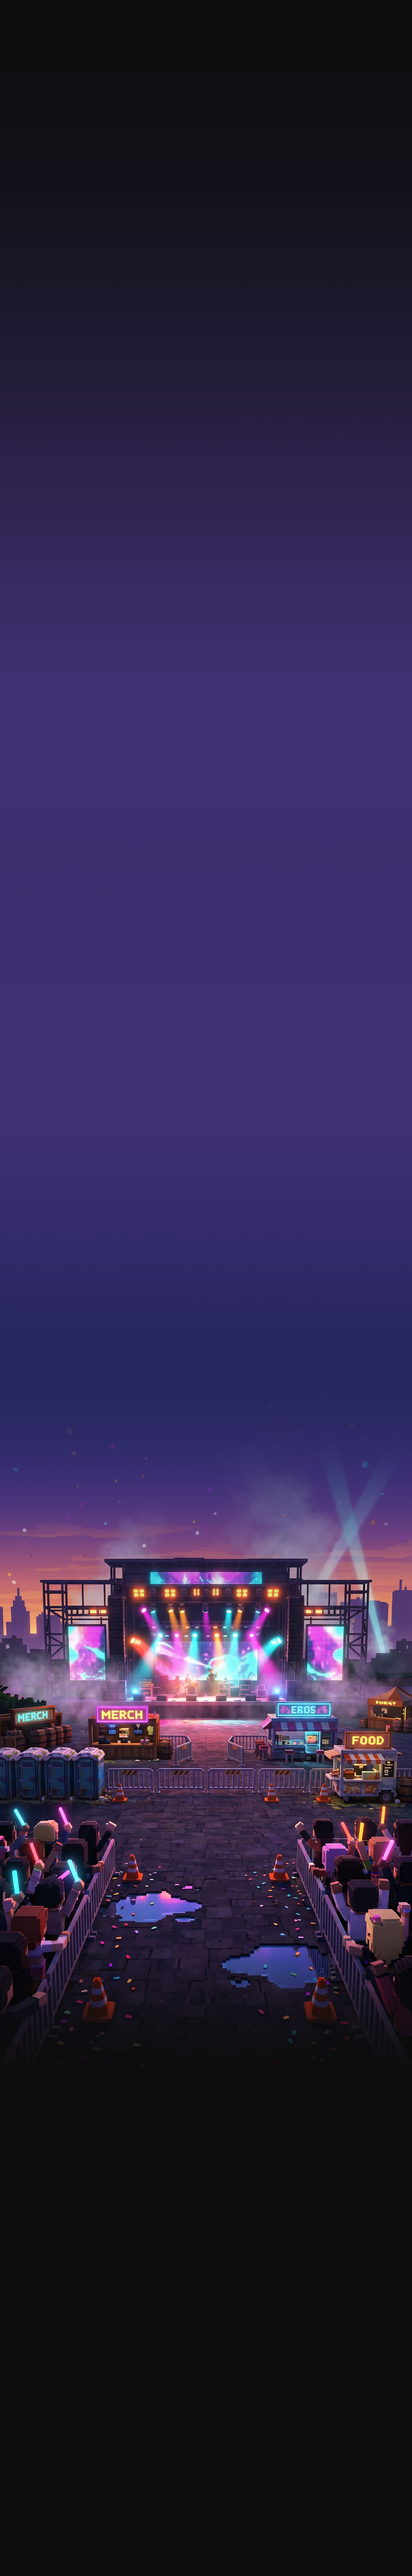
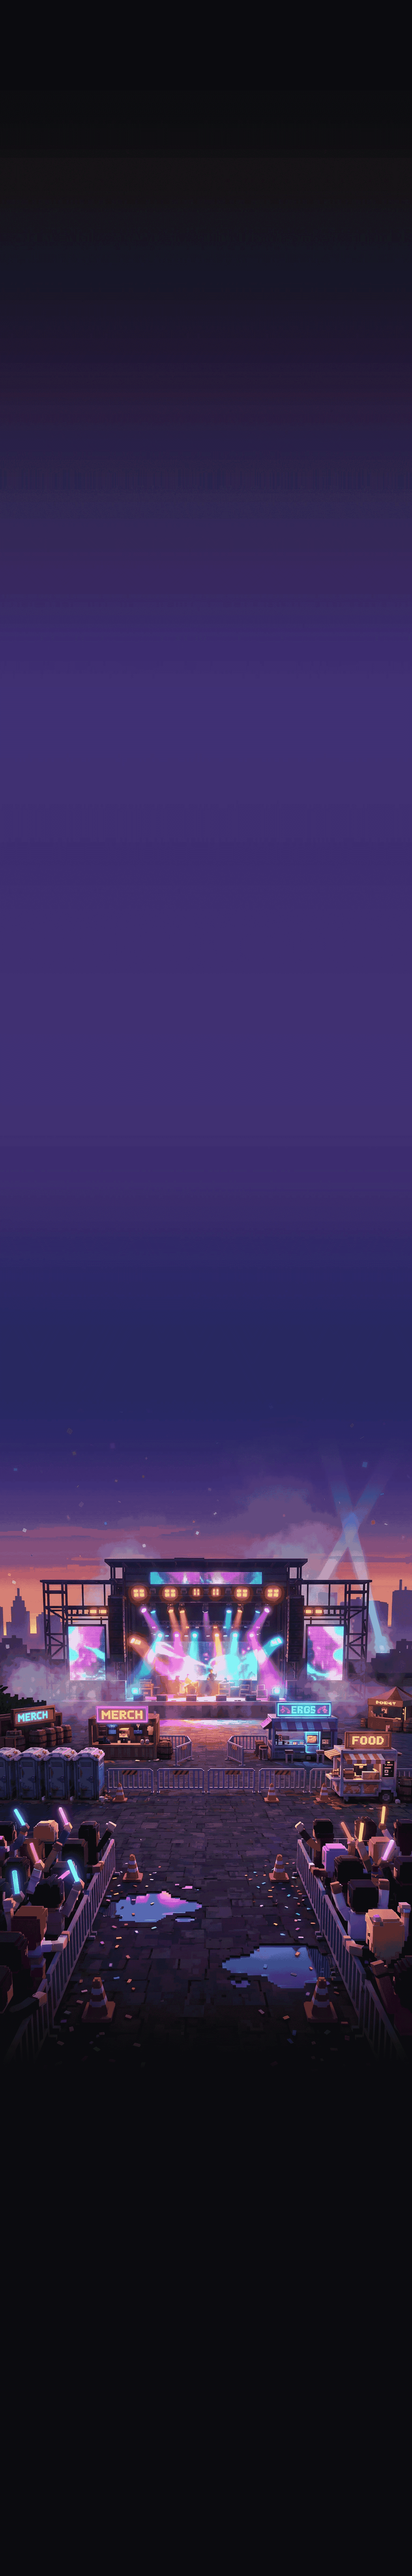
Platform Asset Update

diff --git a/src/game/components/VoxelPlatform.tsx b/src/game/components/VoxelPlatform.tsx
@@ -1,21 +1,17 @@
-import { GREY_PLATFORM_WIDTH, TILE_SIZE } from '@/game/constants';
+import { TILE_SIZE } from '@/game/constants';
 import type { PlatformKind, PlatformModel } from '@/game/types';
 import { Image, StyleSheet, View, type ImageSourcePropType } from 'react-native';
 
 /**
- * Sprites for modular tile platforms (28 × 28 px each).
- * These are repeated horizontally — never stretched.
+ * Sprites for all platform tile types (84 × 84 px native = 28 × 28 pt at 3×).
+ * Every platform kind is built by repeating its tile horizontally — no
+ * stretching, no partial tiles.
  */
-const TILE_SPRITES: Record<'blue' | 'darkBlue', ImageSourcePropType> = {
-  blue: require('@assets/sprites/BLUE.png'),
-  darkBlue: require('@assets/sprites/DARK BLUE.png'),
+const TILE_SPRITES: Record<PlatformKind, ImageSourcePropType> = {
+  blue:     require('@assets/sprites/BLUE BLOCK.png'),
+  darkBlue: require('@assets/sprites/DARK BLUE BLOCK.png'),
+  grey:     require('@assets/sprites/GREY ONE.png'),
 };
-
-/**
- * Sprite for the Grey platform — one complete image rendered at its natural
- * 120 × 28 px. Never tiled, never stretched.
- */
-const GREY_SPRITE: ImageSourcePropType = require('@assets/sprites/GREY.png');
 
 type Props = {
   platform: PlatformModel;
@@ -24,53 +20,23 @@ type Props = {
 };
 
 /**
- * Renders platforms without any sprite scaling or stretching:
+ * Renders all platform kinds using the same block-tiling system:
  *
- * - Blue / Dark Blue: composed of repeated 28 × 28 px tiles placed side by
- *   side. Width is always an exact multiple of TILE_SIZE so no partial tiles
- *   ever appear.
+ *   width = tileCount × TILE_SIZE   (always a whole number of tiles)
+ *   Each tile: 28 × 28 pt, placed at exactly tileIndex × TILE_SIZE — no gaps.
  *
- * - Grey: rendered as one fixed 120 × 28 px sprite. Never tiled or scaled.
- *
- * Gameplay-feedback effects are preserved:
- *   - `breaking` (grey after the player touches it): horizontal shake and
+ * Gameplay-feedback effects:
+ *   - `breaking` (grey after the player touches it): horizontal shake +
  *     slight transparency.
- *   - `broken`: fully invisible so collision (which already excludes broken
- *     platforms) and visuals stay in sync.
+ *   - `broken`: fully invisible so collision and visuals stay in sync.
  */
 export function VoxelPlatform({ platform, screenX, screenY }: Props) {
-  const { width, height, kind, breaking, broken, shakePhase } = platform;
+  const { width, kind, breaking, broken, shakePhase } = platform;
   const shake = breaking && !broken ? Math.sin(shakePhase) * 3.5 : 0;
   const opacity = broken ? 0 : breaking ? 0.85 : 1;
 
-  if (kind === 'grey') {
-    return (
-      <View
-        style={[
-          styles.abs,
-          {
-            left: screenX + shake,
-            top: screenY,
-            opacity,
-          },
-        ]}
-      >
-        <Image
-          source={GREY_SPRITE}
-          style={styles.greySprite}
-          resizeMode="cover"
-          fadeDuration={0}
-        />
-      </View>
-    );
-  }
-
-  // Blue and Dark Blue: tile the sprite horizontally using absolute positioning
-  // so each tile sits at exactly tileIndex * TILE_SIZE with zero gap.
-  // resizeMode="stretch" scales the native 38×36 sprite down to TILE_SIZE×TILE_SIZE
-  // so it matches the grey platform block height.
   const tileCount = Math.round(width / TILE_SIZE);
-  const tileSprite = TILE_SPRITES[kind as 'blue' | 'darkBlue'];
+  const tileSprite = TILE_SPRITES[kind];
 
   return (
     <View
@@ -107,9 +73,5 @@ const styles = StyleSheet.create({
     top: 0,
     width: TILE_SIZE,
     height: TILE_SIZE,
-  },
-  greySprite: {
-    width: GREY_PLATFORM_WIDTH,
-    height: 28,
   },
 });

diff --git a/src/game/spawn/platformSpawner.ts b/src/game/spawn/platformSpawner.ts
@@ -1,4 +1,4 @@
-import { GREY_PLATFORM_WIDTH, PLATFORM, PLATFORM_WEIGHTS, SPAWN, TILE_SIZE } from '@/game/constants';
+import { PLATFORM, PLATFORM_WEIGHTS, SPAWN, TILE_SIZE } from '@/game/constants';
 import { JUMP_REACH } from '@/game/math/jumpReach';
 import { mulberry32, randInt, randRange } from '@/game/math/rng';
 import type { GameModel, PlatformKind, PlatformModel } from '@/game/types';
@@ -54,15 +54,39 @@ function darkBlueSpeedMultiplier(score: number): number {
 }
 
 /**
+ * Grey platform tile range, scaled smoothly by difficulty.
+ *
+ * Early game (difficulty ≈ 1): 4–6 tiles (112–168 px) — wide, forgiving.
+ * Mid game  (difficulty ≈ 2–3): 3–5 → 3–4 tiles — narrowing progressively.
+ * Late game (difficulty ≈ 4): 2–3 tiles (56–84 px) — tight, high stakes.
+ *
+ * t = (difficulty − 1) / 3  normalises difficulty [1, 4] → [0, 1].
+ * minTiles = round(4 − 2t)  →  4 at start, 2 at max difficulty.
+ * maxTiles = round(6 − 3t)  →  6 at start, 3 at max difficulty.
+ */
+function greyTileRange(difficulty: number): { min: number; max: number } {
+  const t = Math.max(0, Math.min(1, (difficulty - 1) / 3));
+  const minTiles = Math.max(2, Math.round(4 - 2 * t));
+  const maxTiles = Math.max(minTiles, Math.round(6 - 3 * t));
+  return { min: minTiles, max: maxTiles };
+}
+
+/**
  * Returns the pixel width for a newly spawned platform.
  *
- * - Grey: always GREY_PLATFORM_WIDTH (fixed single sprite, never tiled).
- * - Blue / Dark Blue: random whole-tile count × TILE_SIZE (never fractional).
+ * - Blue / Dark Blue: random tile count in [PLATFORM.minTiles, PLATFORM.maxTiles].
+ * - Grey: tile count drawn from a difficulty-scaled range — wide early,
+ *   narrow late — so breakable platforms stay approachable at game start and
+ *   become a tighter challenge as the player climbs.
+ *
+ * All widths are exact multiples of TILE_SIZE: no fractional tiles, no stretch.
  */
-function pickWidth(rng: Rng, kind: PlatformKind): number {
-  if (kind === 'grey') return GREY_PLATFORM_WIDTH;
-  const tiles = randInt(rng, PLATFORM.minTiles, PLATFORM.maxTiles);
-  return tiles * TILE_SIZE;
+function pickWidth(rng: Rng, kind: PlatformKind, difficulty: number): number {
+  if (kind === 'grey') {
+    const { min, max } = greyTileRange(difficulty);
+    return randInt(rng, min, max) * TILE_SIZE;
+  }
+  return randInt(rng, PLATFORM.minTiles, PLATFORM.maxTiles) * TILE_SIZE;
 }
 
 /**
@@ -86,7 +110,7 @@ export function spawnPlatformRow(g: GameModel, rng: Rng): void {
   const y = g.nextSpawnY - gap;
 
   const kind = pickKind(rng, g.brownCooldownRows);
-  const pw = pickWidth(rng, kind);
+  const pw = pickWidth(rng, kind, g.difficulty);
 
   // Anchor from the previously spawned platform so we can guarantee horizontal
   // reachability. Fall back to screen-center for the very first spawn.

diff --git a/src/game/systems/gameTick.ts b/src/game/systems/gameTick.ts
@@ -114,20 +114,23 @@ export function tickGame(
     // platforms on the way up.
     if (g.player.vy < 0) continue;
 
-    if (p.kind === 'grey') {
-      if (prevFeet <= p.y + 10 && feet >= p.y - 4 && feet <= p.y + p.height + 8) {
-        p.breaking = true;
-        p.breakTimer = 0.09;
-        p.shakePhase = 0.01;
-        g.player.grounded = false;
-      }
-      continue;
-    }
-
     if (prevFeet <= p.y + 8 && feet >= p.y - 4 && feet <= p.y + p.height + 6) {
+      // Snap the player onto the platform surface and apply the jump impulse.
+      // This must happen before any break logic so grey platforms always give
+      // the player a valid bounce — the platform becomes non-solid (breaking)
+      // only AFTER the velocity is committed.
       g.player.y = p.y - g.player.h;
       g.player.vy = PHYSICS.jumpVelocity;
       g.player.grounded = true;
+
+      if (p.kind === 'grey') {
+        // Trigger the break after the jump is secured. platformSolid() will
+        // return false from the next frame onward (breaking === true), so the
+        // player can never double-land on the same grey tile.
+        p.breaking = true;
+        p.breakTimer = 0.09;
+        p.shakePhase = 0.01;
+      }
       break;
     }
   }

diff --git a/src/game/constants.ts b/src/game/constants.ts
@@ -1,10 +1,7 @@
 import type { PlatformKind } from '@/game/types';
 
-/** Pixel size of one repeatable tile used by Blue and Dark Blue platforms. */
+/** Pixel size of one repeatable tile used by all platform types. */
 export const TILE_SIZE = 28;
-
-/** Fixed pixel width of the Grey platform sprite (rendered once, never tiled). */
-export const GREY_PLATFORM_WIDTH = 120;
 
 export const PHYSICS = {
   /**
